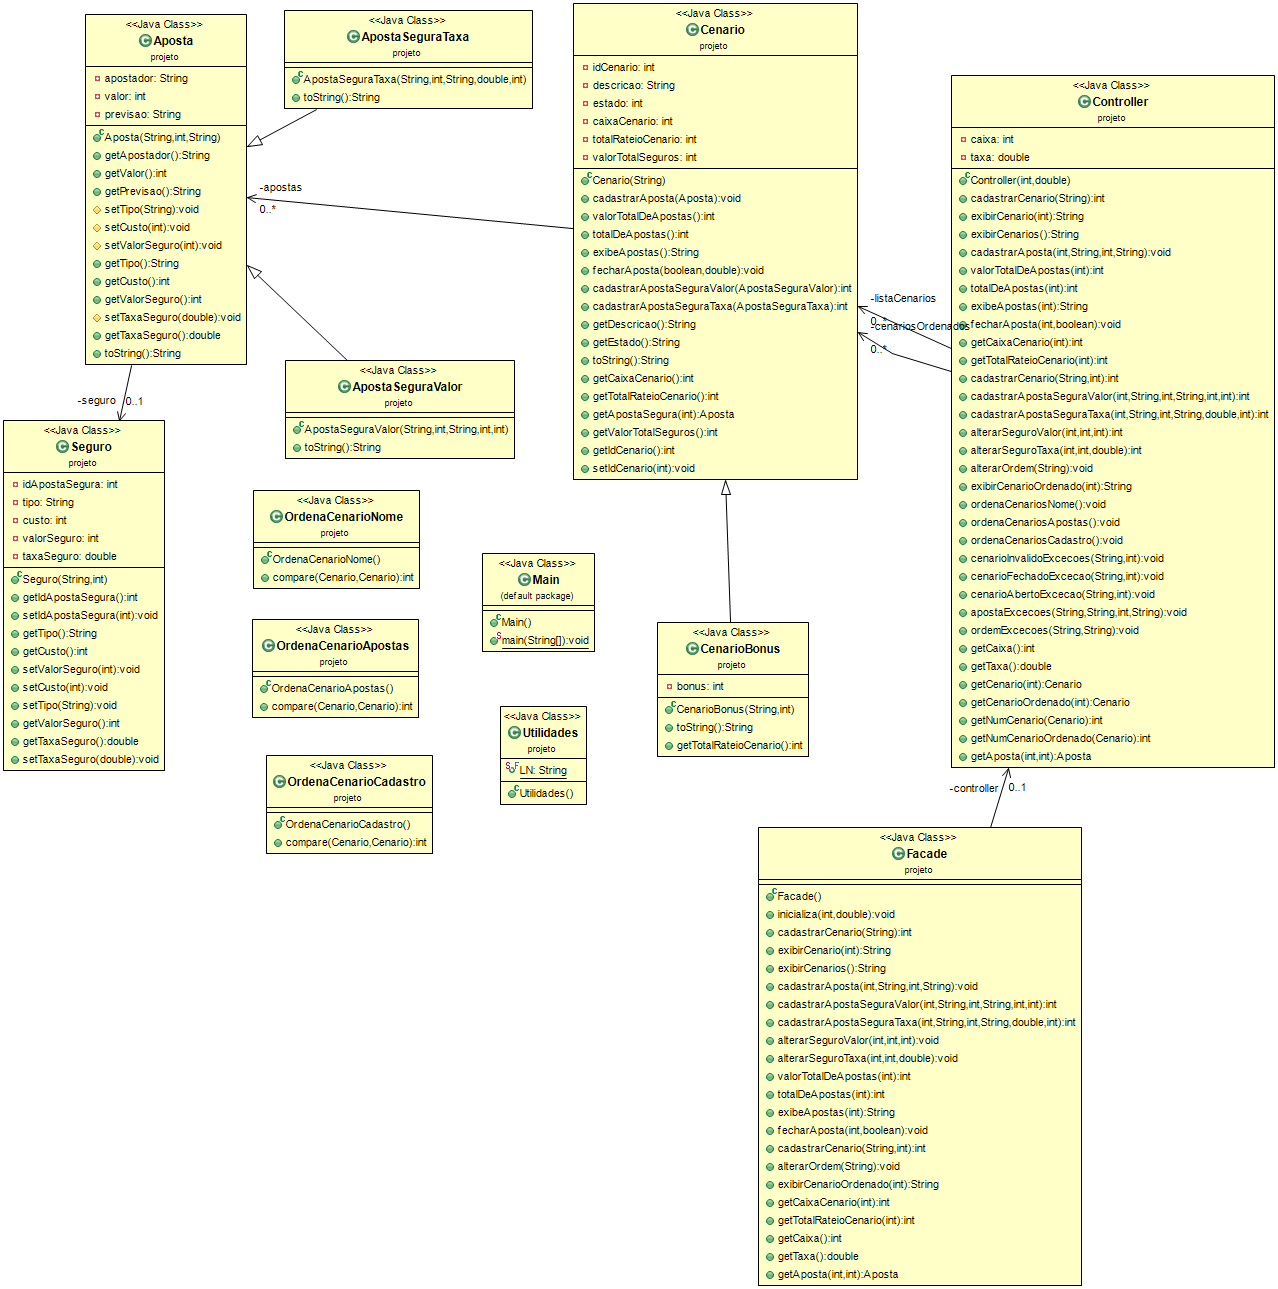
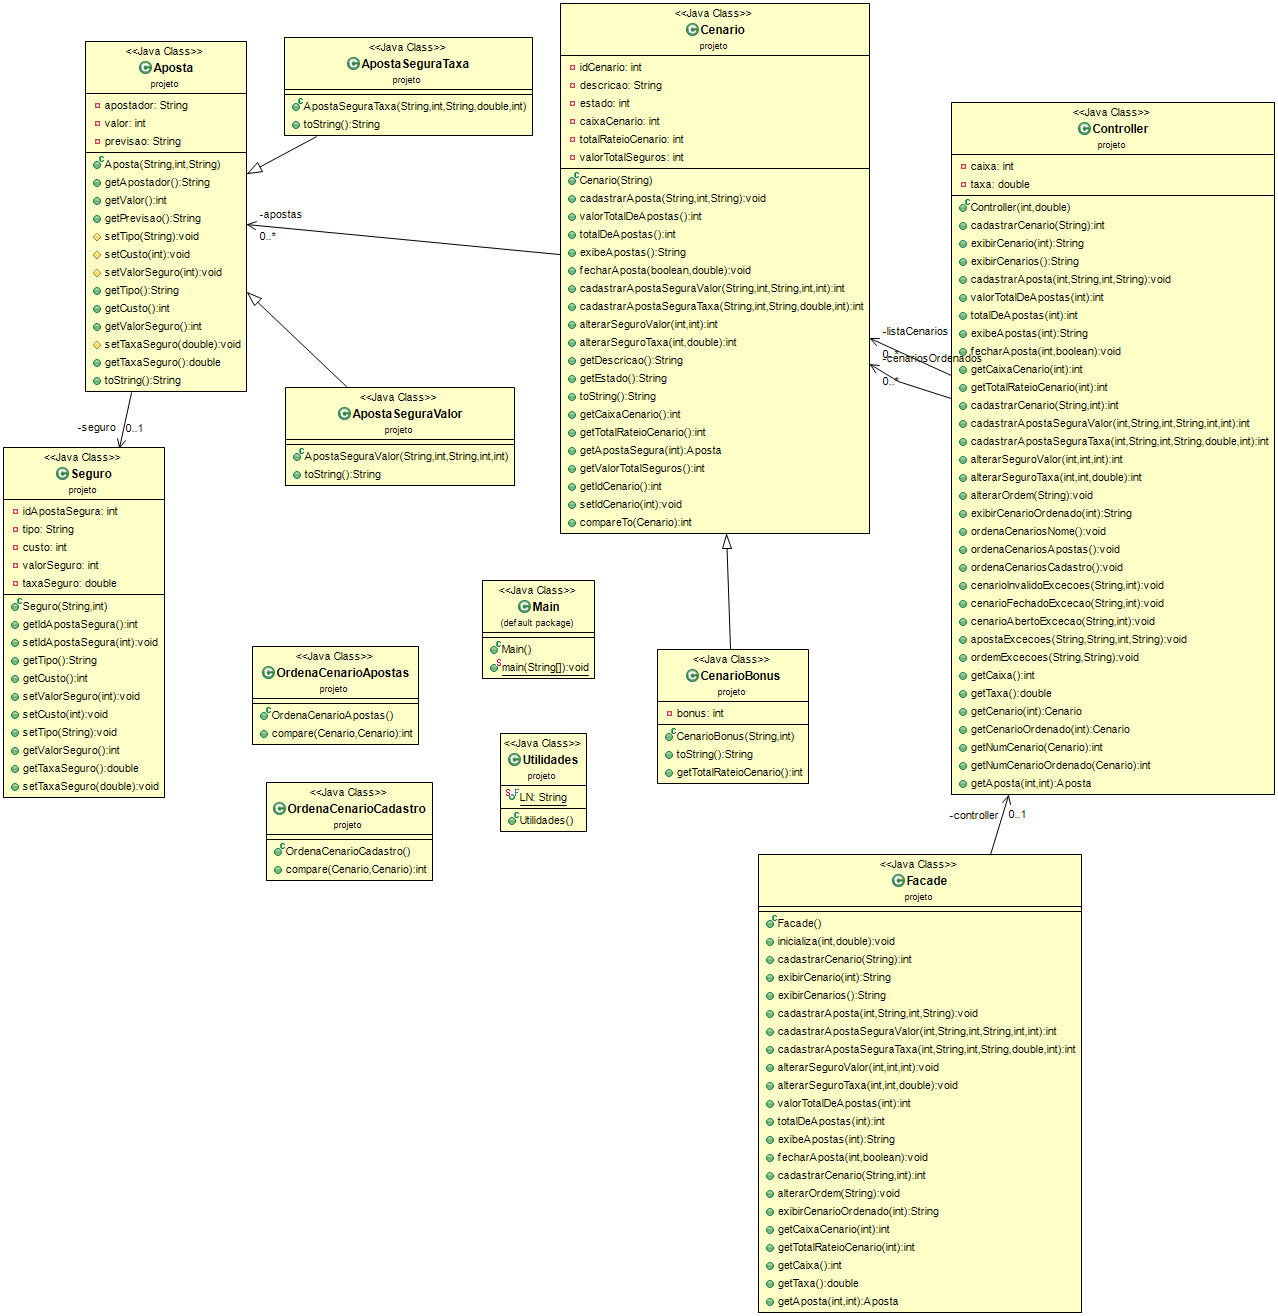
Consertado erros no expert e nos comparadores

Changed region(s): [[0.0, 0.0, 1.0, 0.993], [0.5188, 0.0, 0.5798, 0.0621]]

diff --git a/LAB4_IGOR_FARIAS/src/projeto/Cenario.java b/LAB4_IGOR_FARIAS/src/projeto/Cenario.java
@@ -9,7 +9,7 @@ import java.util.ArrayList;
  * @author Igor Farias - igor.farias@ccc.ufcg.edu.br
  *
  */
-public class Cenario {
+public class Cenario implements Comparable<Cenario> {
 	private int idCenario;
 	private ArrayList<Aposta> apostas = new ArrayList<>();
 	private String descricao;
@@ -20,12 +20,10 @@ public class Cenario {
 
 	public Cenario(String descricao) {
 		if (descricao == null) {
-			throw new NullPointerException(
-					"Erro no cadastro de cenario: Descricao nao pode ser nula");
+			throw new NullPointerException("Erro no cadastro de cenario: Descricao nao pode ser nula");
 		}
 		if (descricao.trim().equals("")) {
-			throw new IllegalArgumentException(
-					"Erro no cadastro de cenario: Descricao nao pode ser vazia");
+			throw new IllegalArgumentException("Erro no cadastro de cenario: Descricao nao pode ser vazia");
 		}
 		this.descricao = descricao;
 		this.estado = 0;
@@ -43,7 +41,8 @@ public class Cenario {
 	 * @param previsao
 	 *            é a previsão da aposta
 	 */
-	public void cadastrarAposta(Aposta aposta) {
+	public void cadastrarAposta(String apostador, int valor, String previsao) {
+		Aposta aposta = new Aposta(apostador, valor, previsao);
 		this.apostas.add(aposta);
 	}
 
@@ -100,16 +99,13 @@ public class Cenario {
 		}
 
 		for (Aposta aposta : apostas) {
-			if ((this.estado == 2 && aposta.getPrevisao().equalsIgnoreCase(
-					"N VAI ACONTECER"))
-					|| (this.estado == 1 && aposta.getPrevisao()
-							.equalsIgnoreCase("VAI ACONTECER"))) {
+			if ((this.estado == 2 && aposta.getPrevisao().equalsIgnoreCase("N VAI ACONTECER"))
+					|| (this.estado == 1 && aposta.getPrevisao().equalsIgnoreCase("VAI ACONTECER"))) {
 				valorApostasPerdidas += aposta.getValor();
 				if (aposta.getValorSeguro() > 0) {
 					valorTotalSeguros += aposta.getValorSeguro();
 				} else if (aposta.getTaxaSeguro() > 0) {
-					valorTotalSeguros += aposta.getValor()
-							* aposta.getTaxaSeguro();
+					valorTotalSeguros += aposta.getValor() * aposta.getTaxaSeguro();
 				}
 			}
 		}
@@ -132,8 +128,9 @@ public class Cenario {
 	 *            é a aposta assegurada por valor
 	 * @return número de identificação da aposta
 	 */
-	public int cadastrarApostaSeguraValor(ApostaSeguraValor aposta) {
-		this.apostas.add(aposta);
+	public int cadastrarApostaSeguraValor(String apostador, int valor, String previsao, int valorSeguro, int custo) {
+		ApostaSeguraValor apostaSeguraVal = new ApostaSeguraValor(apostador, valor, previsao, valorSeguro, custo);
+		this.apostas.add(apostaSeguraVal);
 		return this.apostas.size();
 	}
 
@@ -144,9 +141,56 @@ public class Cenario {
 	 *            é a aposta assegurada por taxa
 	 * @return número de identificação da aposta
 	 */
-	public int cadastrarApostaSeguraTaxa(ApostaSeguraTaxa aposta) {
-		this.apostas.add(aposta);
+	public int cadastrarApostaSeguraTaxa(String apostador, int valor, String previsao, double taxa, int custo) {
+		ApostaSeguraTaxa apostaSeguraTaxa = new ApostaSeguraTaxa(apostador, valor, previsao, taxa, custo);
+		this.apostas.add(apostaSeguraTaxa);
 		return this.apostas.size();
+	}
+
+	/**
+	 * Altera o tipo de seguro de uma aposta para assegurada por valor
+	 * 
+	 * @param apostaAssegurada
+	 *            é a identificação da aposta assegurada
+	 * @param valor
+	 *            é o valor do seguro
+	 * @return identificação da aposta
+	 */
+	public int alterarSeguroValor(int apostaAssegurada, int valor) {
+		Aposta aposta = getApostaSegura(apostaAssegurada);
+		if (aposta.getTipo().equalsIgnoreCase("TAXA")) {
+			aposta.setTipo("VALOR");
+			aposta.setValorSeguro(valor);
+			aposta.setTaxaSeguro(0);
+		}
+		return apostaAssegurada;
+	}
+
+	/**
+	 * Altera o tipo de seguro de uma aposta para assegurada por taxa
+	 * 
+	 * @param apostaAssegurada
+	 *            é a identificação da aposta assegurada
+	 * @param taxa
+	 *            é a taxa de seguro da aposta
+	 * @return identificação da aposta
+	 */
+	public int alterarSeguroTaxa(int apostaAssegurada, double taxa) {
+		Aposta aposta = getApostaSegura(apostaAssegurada);
+		if (aposta.getTipo().equalsIgnoreCase("VALOR")) {
+			aposta.setTipo("TAXA");
+			aposta.setValorSeguro(0);
+			aposta.setTaxaSeguro(taxa);
+		}
+		return apostaAssegurada;
+	}
+
+	/**
+	 * Compara os cenários pela descrição em ordem lexicográfica
+	 */
+	@Override
+	public int compareTo(Cenario o) {
+		return this.getDescricao().compareTo(o.getDescricao());
 	}
 
 	public String getDescricao() {
@@ -189,7 +233,7 @@ public class Cenario {
 	}
 
 	public Aposta getApostaSegura(int id) {
-		return apostas.get(id-1);
+		return apostas.get(id - 1);
 	}
 
 	public int getValorTotalSeguros() {
@@ -203,8 +247,5 @@ public class Cenario {
 	public void setIdCenario(int idCenario) {
 		this.idCenario = idCenario;
 	}
-	
-	
-	
-	
+
 }

diff --git a/LAB4_IGOR_FARIAS/src/projeto/Controller.java b/LAB4_IGOR_FARIAS/src/projeto/Controller.java
@@ -1,6 +1,7 @@
 package projeto;
 
 import java.util.ArrayList;
+import java.util.Collections;
 import java.util.Comparator;
 
 /**
@@ -84,9 +85,8 @@ public class Controller {
 	public void cadastrarAposta(int cenario, String apostador, int valor, String previsao) {
 		cenarioInvalidoExcecoes("Erro no cadastro de aposta: ", cenario);
 		apostaExcecoes("Erro no cadastro de aposta: ", apostador, valor, previsao);
-		Aposta aposta = new Aposta(apostador, valor, previsao);
 		Cenario meuCenario = getCenario(cenario);
-		meuCenario.cadastrarAposta(aposta);
+		meuCenario.cadastrarAposta(apostador, valor, previsao);
 	}
 
 	/**
@@ -218,9 +218,8 @@ public class Controller {
 		apostaExcecoes("Erro no cadastro de aposta assegurada por valor: ", apostador, valor, previsao);
 		cenarioInvalidoExcecoes("Erro no cadastro de aposta assegurada por valor: ", cenario);
 		Cenario meuCenario = getCenario(cenario);
-		ApostaSeguraValor apostaSeguraVal = new ApostaSeguraValor(apostador, valor, previsao, valorSeguro, custo);
 		this.caixa += custo;
-		return meuCenario.cadastrarApostaSeguraValor(apostaSeguraVal);
+		return meuCenario.cadastrarApostaSeguraValor(apostador, valor, previsao, valorSeguro, custo);
 	}
 
 	/**
@@ -245,10 +244,9 @@ public class Controller {
 			int custo) {
 		cenarioInvalidoExcecoes("Erro no cadastro de aposta assegurada por taxa: ", cenario);
 		apostaExcecoes("Erro no cadastro de aposta assegurada por taxa: ", apostador, valor, previsao);
-		ApostaSeguraTaxa apostaSeguraTaxa = new ApostaSeguraTaxa(apostador, valor, previsao, taxa, custo);
 		Cenario meuCenario = getCenario(cenario);
 		this.caixa += custo;
-		return meuCenario.cadastrarApostaSeguraTaxa(apostaSeguraTaxa);
+		return meuCenario.cadastrarApostaSeguraTaxa(apostador, valor, previsao, taxa, custo);
 	}
 
 	/**
@@ -264,13 +262,7 @@ public class Controller {
 	 */
 	public int alterarSeguroValor(int cenario, int apostaAssegurada, int valor) {
 		Cenario meuCenario = getCenario(cenario);
-		Aposta aposta = meuCenario.getApostaSegura(apostaAssegurada);
-		if (aposta.getTipo().equalsIgnoreCase("TAXA")) {
-			aposta.setTipo("VALOR");
-			aposta.setValorSeguro(valor);
-			aposta.setTaxaSeguro(0);
-		}
-		return apostaAssegurada;
+		return meuCenario.alterarSeguroValor(apostaAssegurada, valor);
 	}
 
 	/**
@@ -285,13 +277,7 @@ public class Controller {
 	 */
 	public int alterarSeguroTaxa(int cenario, int apostaAssegurada, double taxa) {
 		Cenario meuCenario = getCenario(cenario);
-		Aposta aposta = meuCenario.getApostaSegura(apostaAssegurada);
-		if (aposta.getTipo().equalsIgnoreCase("VALOR")) {
-			aposta.setTipo("TAXA");
-			aposta.setValorSeguro(0);
-			aposta.setTaxaSeguro(taxa);
-		}
-		return apostaAssegurada;
+		return meuCenario.alterarSeguroTaxa(apostaAssegurada, taxa);
 	}
 
 	/**
@@ -329,8 +315,7 @@ public class Controller {
 	 * Ordena os cenários pela ordem alfabética
 	 */
 	public void ordenaCenariosNome() {
-		Comparator<Cenario> ordenaCenarioNome = new OrdenaCenarioNome();
-		cenariosOrdenados.sort(ordenaCenarioNome);
+		Collections.sort(cenariosOrdenados);
 	}
 
 	/**
